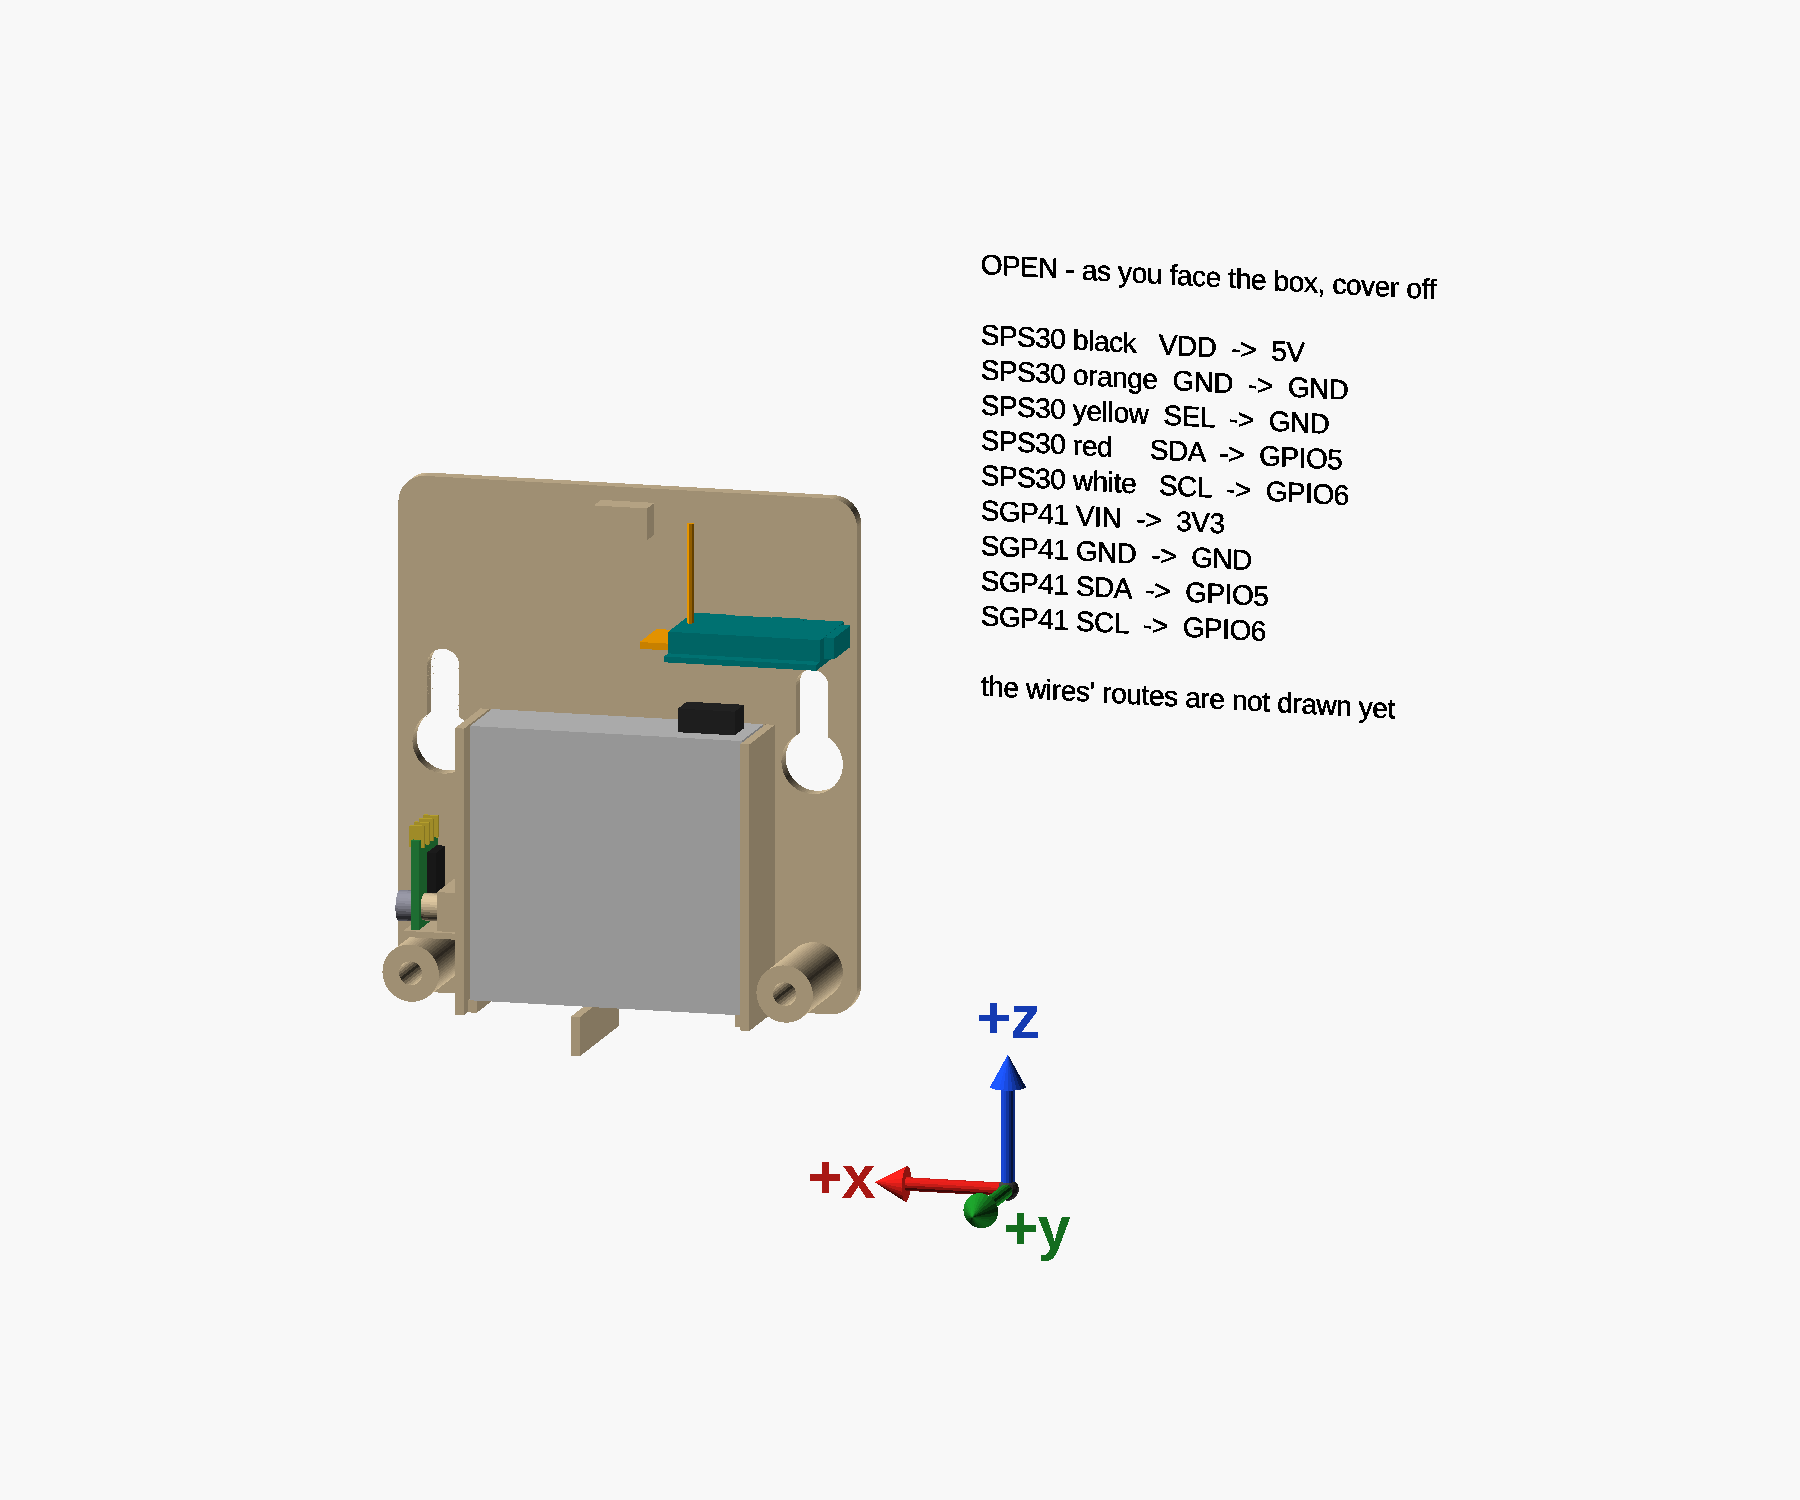
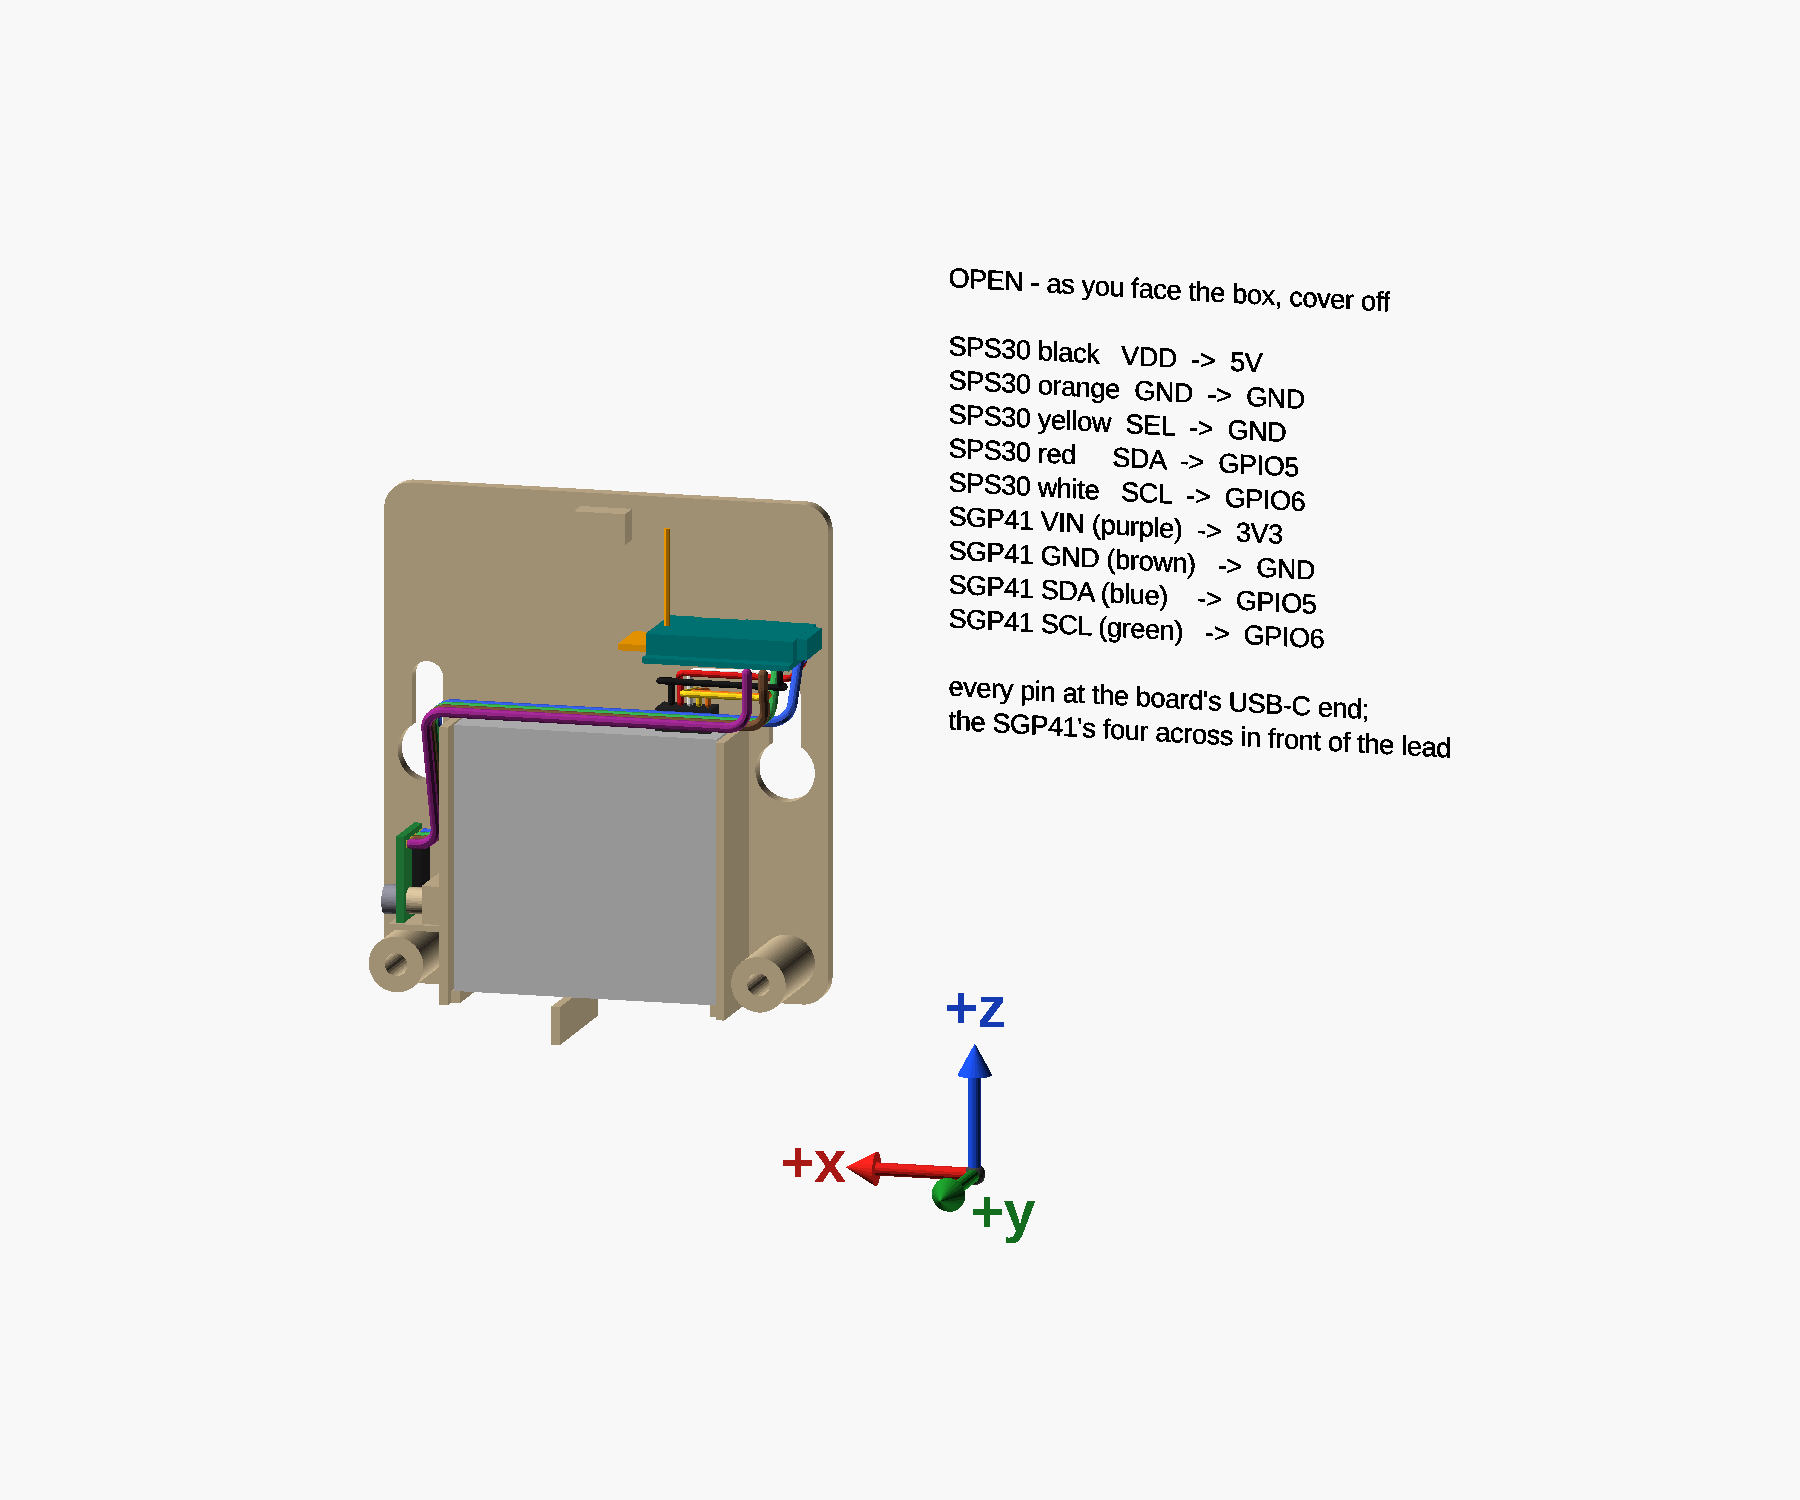
feat(models): print-chamber box - every wire routed and checked
Alon, 3 Oct 2026: "run the wires".

assembly-views.scad now draws all nine wires to their pads and checks
them as it draws. Every pad the node uses is at the board's USB-C end,
and every wire comes up to its pad from under the board:

- The SPS30's lead rises from its plug and bends over inside its 10 mm
  cable zone. SEL and GND, for the front GND pad, cross at one height;
  VDD and the two for the back pads a wire higher, so each passes over
  the others' bends - in one layer VDD would have to cross SEL and GND.
  VDD, SEL and GND come straight up into the front pads; SDA and SCL
  run behind, over the left wall screw's head, under the SGP41's SDA
  and SCL, and come up beside them at the end.
- The SGP41's four leave its back and rise up its column, slanting
  forward clear of the right wall screw's head, gently enough that the
  slant does not bring them together. They cross over the SPS30's top in
  front of its plug, under the lead's wires and about 10 mm under the
  antenna. At the USB-C end SDA and SCL climb to lie against the board's
  underside and run back to GPIO5 and GPIO6; VIN climbs straight into
  3V3, and GND, passing behind it, slants up into its pad. Their pin
  order is kept all the way, so no two cross.

The wall screws' heads end up under GPIO5 and GPIO6, where two wires
lie stacked. back_wire_room (3.0) keeps room for them: the keyholes now
sit that much below the board rather than just under its clips, so the
[…]

Changed region(s): [[0.1867, 0.3067, 0.4978, 0.7053], [0.5289, 0.1533, 0.8089, 0.5213], [0.4356, 0.644, 0.5911, 0.828]]

diff --git a/models/print-chamber-box/docs/wiring.md b/models/print-chamber-box/docs/wiring.md
@@ -1,23 +1,26 @@
 # Wiring
 
-**Solder at the SuperMini, from its component side, with no headers.** Pin headers and Dupont housings
-stand about 22 mm off the board, and there is not that much room in front of it. The sensors keep their
-own connectors — or in the SGP41's case its own pins — so either can be swapped without unsoldering the
-SuperMini.
+**Solder each wire into its pad's half-hole at the SuperMini's edge, with no headers.** Every wire comes
+up to its pad from under the board, and every pad the node uses is at the board's USB-C end — so no wire
+goes near the antenna. The sensors keep their own connectors, or in the SGP41's case its own pin holes,
+so either can be swapped without unsoldering the SuperMini.
 
 ## Which wire goes where
 
+The board's **front** edge faces the cover; its **back** edge lies against the back plate. Pins count
+from the USB-C end.
+
 | Wire | From | To the SuperMini | Its edge, as installed |
 |---|---|---|---|
-| SPS30 black | pin 1, VDD | **5V** | lower edge, 1st from the USB-C end |
-| SPS30 orange | pin 5, GND | **GND** | lower edge, 2nd |
-| SPS30 yellow | pin 4, SEL | **GND** | lower edge, 2nd |
-| SGP41 GND | GND | **GND** | lower edge, 2nd |
-| SGP41 VIN | VIN | **3V3** — never 5V | lower edge, 3rd |
-| SPS30 red | pin 2, SDA | **GPIO5** | upper edge, 1st |
-| SGP41 SDA | SDA | **GPIO5** | upper edge, 1st |
-| SPS30 white | pin 3, SCL | **GPIO6** | upper edge, 2nd |
-| SGP41 SCL | SCL | **GPIO6** | upper edge, 2nd |
+| SPS30 black | pin 1, VDD | **5V** | front, 1st |
+| SPS30 orange | pin 5, GND | **GND** | front, 2nd |
+| SPS30 yellow | pin 4, SEL | **GND** | front, 2nd |
+| SGP41 GND | GND | **GND** | front, 2nd |
+| SGP41 VIN | VIN | **3V3** — never 5V | front, 3rd |
+| SPS30 red | pin 2, SDA | **GPIO5** | back, 1st |
+| SGP41 SDA | SDA | **GPIO5** | back, 1st |
+| SPS30 white | pin 3, SCL | **GPIO6** | back, 2nd |
+| SGP41 SCL | SCL | **GPIO6** | back, 2nd |
 
 The SPS30's colours are its own lead's, checked with a meter —
 [`firmware/print-chamber.yaml`](../../../firmware/print-chamber.yaml) says how, why colours are not to be
@@ -26,40 +29,85 @@ SPS30's orange and yellow together first.
 
 ## The routes
 
-![assembled, cover off, with the wiring table](assembly-open.png)
+![assembled, cover off, every wire drawn to its pin](assembly-open.png)
 
-**Not drawn for the 3 Oct 2026 layout yet** (Alon: *"Let's first get the layout right"*). The text below
-describes the routes of the layout before it.
+At the board's USB-C end, from below and in front — the SGP41's four thick wires and the SPS30's five thin
+ones, each meeting its pad:
 
-The routes are drawn by [`assembly-views.scad`](../assembly-views.scad). They are illustrative — a wire
-bends where it likes — but each ends on its pin from the table, and the drawing checks them (see
-[Checking it](checking.md#the-wire-routes)). The SGP41's colours in the pictures are stand-ins.
+![the wires at the board's pins, from below](wiring-detail.png)
+
+Both are drawn by [`assembly-views.scad`](../assembly-views.scad). The routes are one way the wires can
+go — a wire bends where it likes — but each ends on its pin from the table, and the drawing checks them
+(below). The SGP41's colours in the pictures are stand-ins: purple VIN, brown GND, blue SDA, green SCL.
 
 **The SPS30's lead**
 
-- It rises from its plug at the outlet end and bends over towards the right wall. Its column is kept
-  clear of printed parts: the SGP41's pedestal stands to its left and the cable channel to its right.
+- It rises from its plug at the outlet end and bends over towards the board's USB-C end, inside the
+  10 mm above the sensor its lead is given.
+- **Orange and yellow**, for the front GND pad, run along the front at one height; **black** for 5V, and
+  **red and white** for the back pads, run a wire higher — so each passes over the others' bends.
+- Black, orange and yellow come straight up into the front pads from below.
+- Red and white run behind the others, over the left wall screw's head, then under the SGP41's SDA and SCL
+  to the same pads, and come up beside them at the end.
 - **Shorten the lead** so it reaches the board with about a centimetre to spare, rather than coiling it.
   The SPS30 has a fan, and a slack lead buzzes.
-- **Press its five wires into the cable channel** from the front, past the lips. The channel stands
-  upright under the board's power pins and holds the wires in place; nothing pulls on them inside a
-  closed box, so it does not need to grip.
-- From the channel's top, 5V, GND and 3V3 are straight above, on the board's lower edge. GPIO5 and GPIO6
-  are on its upper edge, so those two wires cross the front of the board **over its USB-C end**, about
-  8 mm out. GPIO6's pad is straight above GND's, so its wire rises 1.4 mm aside, between the 5V and
-  GND pads, which leaves GND's pad open for the SGP41's wire coming in from the front.
 
 **The SGP41's four wires** — 22 AWG solid
 
-- They do not use the channel. **Solder them to come out of the module's back**, before it is screwed
-  down: they leave straight towards the plate, then bend over, at least 1 mm from the board and round
-  no tighter than about 3 mm.
-- They run across to the SuperMini about 12–14 mm out from the plate, in front of the SPS30's lead,
-  along under the board until they are past its middle, then up to their pins and straight into them.
-- The module's pins run SDA, SCL, GND, VIN down its edge, the reverse of the board's order, so two pairs
-  cross; one wire lies behind the other there.
+- **Solder them to come out of the module's back**, before it is screwed down: they leave towards the
+  SPS30's channel, then turn up, at least 1 mm from the board and round no tighter than about 3 mm.
+- They rise up the module's column **slanting forward**, away from the plate, so they pass in front of
+  the right wall screw's head — gently, so the slant does not bring them together.
+- They cross over the SPS30's top in front of its plug, about 3 mm above the sensor: under the lead's
+  wires, and about 10 mm under the antenna.
+- At the board's USB-C end, **SDA and SCL** climb to lie against the board's underside and run back to
+  GPIO5 and GPIO6; **VIN** climbs straight up into 3V3; **GND**, which passes behind VIN, slants up into
+  its pad beside it.
+- The module's pins run SDA, SCL, GND, VIN from the plate outwards, and the wires keep that order all the
+  way, so no two cross.
 - Cut each to length at its pad. Solid wire holds the shape it is bent to, so bend each to its route
   before soldering its second end.
 
-**Never** run a wire across the board's antenna half, in front of the antenna wire, or anywhere in the
-window or the air gap in front of the SPS30.
+**Under the back pads, two wires lie stacked**: the SGP41's against the board and the lead's under it.
+That is why the keyholes sit `back_wire_room` (3 mm) below the board rather than just under its clips —
+the wall screws' heads end up under those pads.
+
+**Never** run a wire over the top of the board, near the antenna's loop or pole, or into the window or
+the air gap in front of the SPS30.
+
+## Checking the routes
+
+The `open` view checks the routes as it draws them, and stops with an `ERROR: Assertion` line if one
+breaks — OpenSCAD still exits 0, so read the output:
+
+- no bend tighter than its wire takes: 3 mm for the solid wire, 1 mm for the lead's;
+- every wire clear of every other, except within 5 mm of a pad two of them share;
+- every wire at least 3 mm from the antenna's loop and pole — they come to 4.2 mm;
+- the two wires stacked under a back pad fit `back_wire_room`.
+
+Its last line gives the tightest bend, the nearest two wires and the nearest the antenna.
+
+The `check_wires` view intersects the wires with everything else in the box: both printed parts, the
+SPS30 and its plug, the board, its parts and USB-C shell, the GY-SGP41, its screw's head, the wall
+screws' heads as they slide up their keyholes, and the air gap in front of the sensor. Exported to STL it
+must be empty, so OpenSCAD writes no file:
+
+```sh
+openscad -o check_wires.stl -D 'view="check_wires"' assembly-views.scad   # "Current top level object is empty"
+```
+
+It counts the strip along the GY-SGP41's pin holes, on its back, as bare — the wires leave the module
+there.
+
+Each check has a setting that breaks it, measured 3 Oct 2026:
+
+| Setting | What it breaks | Caught by |
+|---|---|---|
+| `gy_pitch = 1.0` | the SGP41's wires laid closer than they are thick | an assert: 0.74 mm of overlap |
+| `bend_r = 6` | segments too short for the bends asked of them | an assert |
+| `ant_clear = 5` | a limit the routes, at 4.2 mm, do not meet | an assert |
+| `back_wire_room = 2.5` | less room under the back pads than the stacked wires need | an assert |
+| `z_cross = 43.2` | the SGP41's wires lowered into the cover's baffle and the SPS30's channel walls | `check_wires`: 212 mm³ |
+
+The routes are laid out for the box as built, with the outlet at the right; the view refuses
+`outlet_at_left = true`.

diff --git a/models/print-chamber-box/docs/checking.md b/models/print-chamber-box/docs/checking.md
@@ -59,10 +59,10 @@ Each setting breaks one thing; the check, or an assert, must catch it. Measured 
 | `check_parts` | `part_fit = -0.6` | the cover's features overlap the plate's | 212.4 mm³ |
 | `check_parts` | `bump_z1 = 75` | the bump at the top into the cover's top wall | 14.4 mm³ |
 | `check_parts` | `nut_boss_y1 = 21.5` | the nut bosses run into the cover's screw bosses | 190.5 mm³ |
-| `check_components` | `z_f0 = 48` | the board lowered into the column the SPS30's lead rises through | 39.5 mm³ |
+| `check_components` | `z_f0 = 50` | the board lowered into the column the SPS30's lead rises through | 24.3 mm³ |
 | `check_components` | `gy_xb = 61.8` | the SGP41's block face into the parts on the module's underside | 40.5 mm³ |
 | `check_components` | `gy_standoff_d = 5.6` | the standoff wider than the bare patch round the hole | 7.3 mm³ |
-| `check_components` | `key_xs = [6.25, 57]` | the left keyhole moved under the SPS30's channel wall: its screw head runs into it | 44.4 mm³ |
+| `check_components` | `key_xs = [6.25, 57]` | the left keyhole moved under the SPS30's channel wall: its screw head runs into it | 52.5 mm³ |
 | `check_components` | `clip_g_catch = 0.5` | the clips' catch pressing too far into the PCB | 0.61 mm³ |
 | `check_slide` | `stop_x0 = 20` | the stops moved into the board's way in | 2.9 mm³ |
 | `check_slide` | `clip_g_mouth = 0.6` | the clips' mouth narrower than the PCB | 0.59 mm³ |

diff --git a/models/print-chamber-box/docs/parameters.md b/models/print-chamber-box/docs/parameters.md
@@ -130,6 +130,7 @@ thicknesses whole layers of `fdm_layer_h`, and the model asserts both.
 | `stop_reach` | **3.0** | how far each stop at the antenna end reaches in from a long edge; the loop leaves 4.3 free |
 | `gy_standoff_d`, `gy_screw_l` | **4.0**, **6.0** | the SGP41's standoff, inside the bare patch round its hole; its M2.5 screw's length — an 8 would reach the SPS30's channel |
 | `key_slack`, `key_level_tol` | **1.0**, **2.0** | how much further than the plate's thickness a wall screw's head may stand off the wall; how much lower one screw may sit than the other |
+| `back_wire_room` | **3.0** | the room kept under the board's back edge, over the wall screws' heads, for the wires to GPIO5 and GPIO6: two stacked there, the SGP41's 1.56 mm and a lead wire of about 1 mm. The keyholes sit low enough to leave it — see [Wiring](wiring.md) |
 | `bump_w`, `bump_out`, `u_drop` | **8.0**, **4.0**, **5.0** | the bump the cover's top locates on: its width, how far it stands out from the plate, and how far the U's arms hang down round it |
 | `cover_screw_l` | **20** | the cover's M3 socket head cap screws. The nut's shoulder sits where, from its flush head, the screw passes right through the nut |
 | `corner_r`, `gap` | **4.0**, **1.0** | the plan-view corner radius, which keeps ASA's corners down without a brim; the general clearance between internal features |

diff --git a/models/print-chamber-box/README.md b/models/print-chamber-box/README.md
@@ -65,7 +65,7 @@ opening is a hole in the first layers or a notch open at an edge.
 | [`print-chamber-box.params.scad`](print-chamber-box.params.scad) | every setting, measurement and fit — the one file to edit |
 | [`print-chamber-box.scad`](print-chamber-box.scad) | the model, its asserts and its collision checks |
 | `print-chamber-box-back.scad`, `-cover.scad`, `-fits.scad` | one part each; check and slice through these |
-| [`assembly-views.scad`](assembly-views.scad) | the assembly pictures: exploded, and open with the wiring table |
+| [`assembly-views.scad`](assembly-views.scad) | the assembly pictures: exploded; open, with every wire's route and the wiring table; the wires at the pins close up; and the wires' collision check |
 | [`feature-map.scad`](feature-map.scad) | the numbered feature pictures |
 | [`fits-map.scad`](fits-map.scad) | the lettered picture of the clearance test |
 | [`sps30-measure.scad`](sps30-measure.scad) | the two widths to measure on the SPS30 |

diff --git a/models/print-chamber-box/docs/assembly.md b/models/print-chamber-box/docs/assembly.md
@@ -41,7 +41,7 @@ plate in the model: the SuperMini's push into its clips, and the SPS30's path in
 
 On two screws, by the keyholes in the back plate — the way a wall clock hangs.
 
-1. **Drive the two screws level, 55.3 mm apart**, where the box's bottom edge will be 48.5 mm below them.
+1. **Drive the two screws level, 55.3 mm apart**, where the box's bottom edge will be 46.8 mm below them.
    The divider stands another 4 mm below that edge.
 2. **Leave each head standing about 3 mm off the wall** — between 2.4 and 3.4 mm. The plate is 2.4 mm
    thick, and the room behind it is 1 mm deeper than the head.
